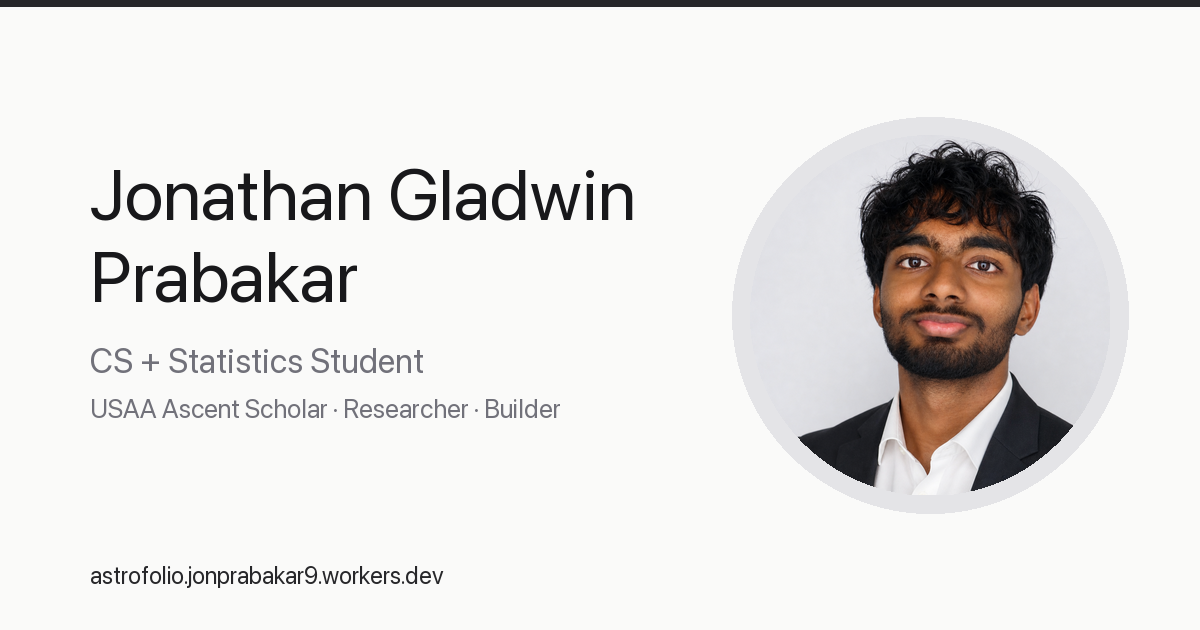
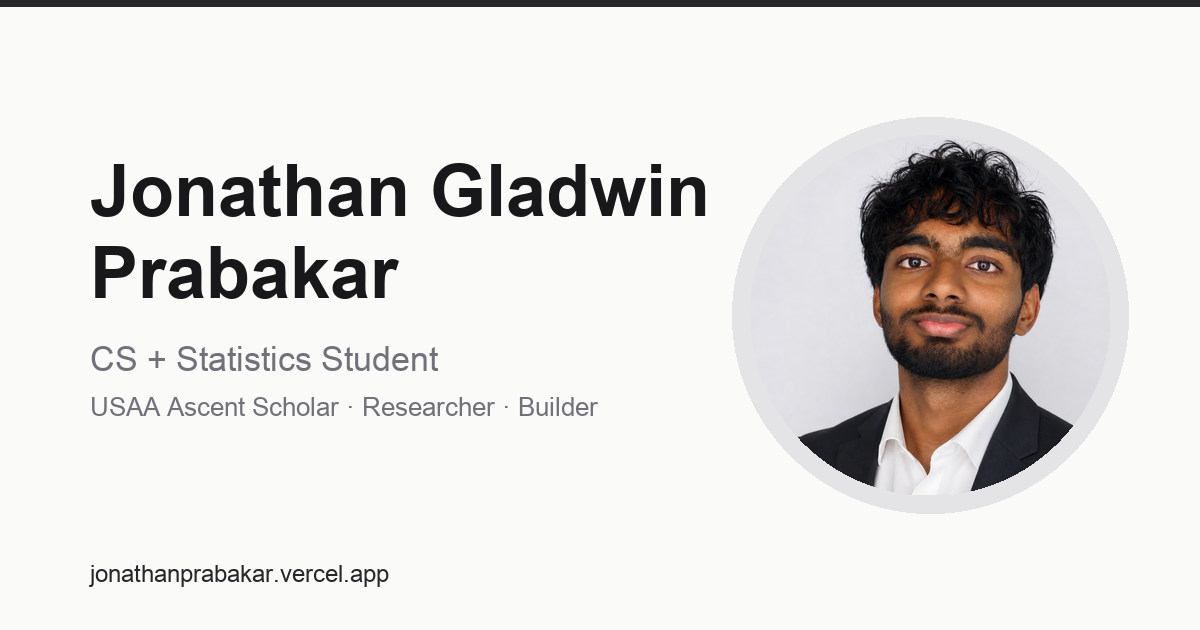
Point site URLs and OG card to jonathanprabakar.vercel.app

diff --git a/src/data/resume.tsx b/src/data/resume.tsx
@@ -15,7 +15,7 @@ import { TailwindCSS } from "@/components/ui/svgs/tailwind";
 export const DATA = {
   name: "Jonathan Gladwin Prabakar - CS + Statistics student",
   initials: "JP",
-  url: "https://astrofolio.jonprabakar9.workers.dev",
+  url: "https://jonathanprabakar.vercel.app",
   location: "San Antonio, TX",
   locationLink: "https://www.google.com/maps/place/san_antonio+tx",
   description:

diff --git a/src/data/config.ts b/src/data/config.ts
@@ -3,7 +3,7 @@ export const CONFIG = {
   // Site Settings
   // ---------------------------------------------------------------------------
   site: {
-    url: "https://astrofolio.jonprabakar9.workers.dev",
+    url: "https://jonathanprabakar.vercel.app",
     locale: "en_US",
     twitterHandle: "@jonprabakar9",
   },
